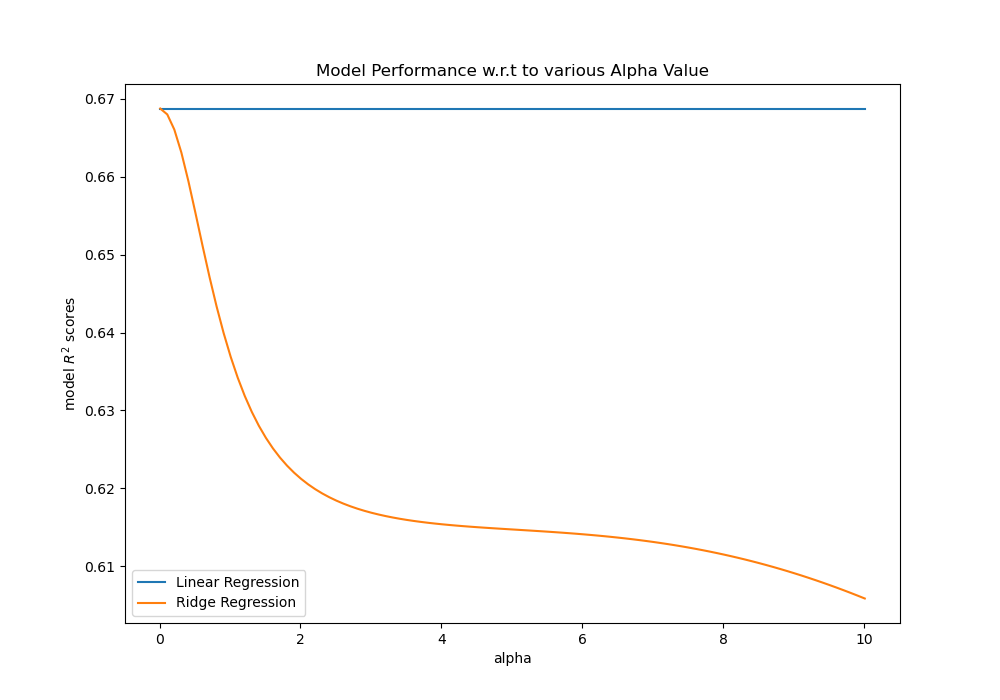
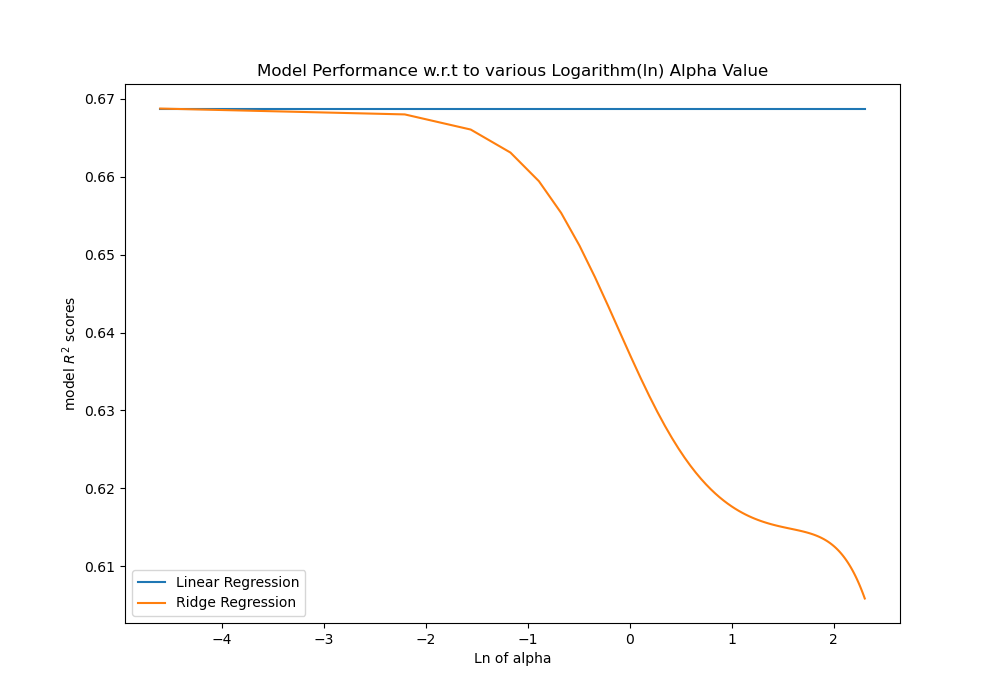
update of import statement using alias after forum discussion

diff --git a/homework/HW3/HW3-final/model_performance.py b/homework/HW3/HW3-final/model_performance.py
@@ -3,9 +3,8 @@ import numpy as np
 from sklearn import datasets
 from sklearn.model_selection import train_test_split
 #import regression classes
-from Regression import Regression
-from Regression import LinearRegression
-from Regression import RidgeRegression
+import Regression as Reg
+
 
 dataset = datasets.load_boston()
 X_train, X_test, y_train, y_test = train_test_split(dataset['data'], 
@@ -19,8 +18,8 @@ ridreg_score = []
 alphas = np.arange(0.01, 10.11, 0.1)
 
 for i in alphas:
-    linreg = LinearRegression()
-    ridreg = RidgeRegression()
+    linreg = Reg.LinearRegression()
+    ridreg = Reg.RidgeRegression()
     ridreg.set_params(alpha=i)
     models = [linreg, ridreg]
     for model in models:
@@ -33,10 +32,10 @@ for i in alphas:
 
 ## plotting 
 plt.figure(figsize=(10,7))
-plt.plot(alphas,linreg_score)
-plt.plot(alphas,ridreg_score)
-plt.xlabel("alpha")
+plt.plot(np.log(alphas),linreg_score)
+plt.plot(np.log(alphas),ridreg_score)
+plt.xlabel("Ln of alpha")
 plt.ylabel("model $R^2$ scores")
 plt.legend(["Linear Regression", "Ridge Regression"])
-plt.title("Model Performance w.r.t to various Alpha Value")
+plt.title("Model Performance w.r.t to various Logarithm(ln) Alpha Value")
 plt.savefig('P2F.png')

diff --git a/homework/HW3/HW3-final/model_scoring.py b/homework/HW3/HW3-final/model_scoring.py
@@ -1,9 +1,8 @@
 from sklearn import datasets
 from sklearn.model_selection import train_test_split
 #import regression classes
-from Regression import Regression
-from Regression import LinearRegression
-from Regression import RidgeRegression
+import Regression as Reg
+
 
 dataset = datasets.load_boston()
 X_train, X_test, y_train, y_test = train_test_split(dataset['data'], 
@@ -12,8 +11,8 @@ X_train, X_test, y_train, y_test = train_test_split(dataset['data'],
                                                     random_state=42)
 
 alpha = 0.1
-linreg = LinearRegression()
-ridreg = RidgeRegression()
+linreg = Reg.LinearRegression()
+ridreg = Reg.RidgeRegression()
 ridreg.set_params(alpha=alpha)
 models = [linreg, ridreg]
 

diff --git a/homework/HW3/HW3-final/P3B_tests.py b/homework/HW3/HW3-final/P3B_tests.py
@@ -1,6 +1,6 @@
-from bank import BankUser
-from bank import AccountType
-from bank import BankAccount
+from Bank import BankUser
+from Bank import AccountType
+from Bank import BankAccount
 
 def test_over_withdrawal(): #this test function should throw an Exception or Error 
     user = BankUser("Joe");
